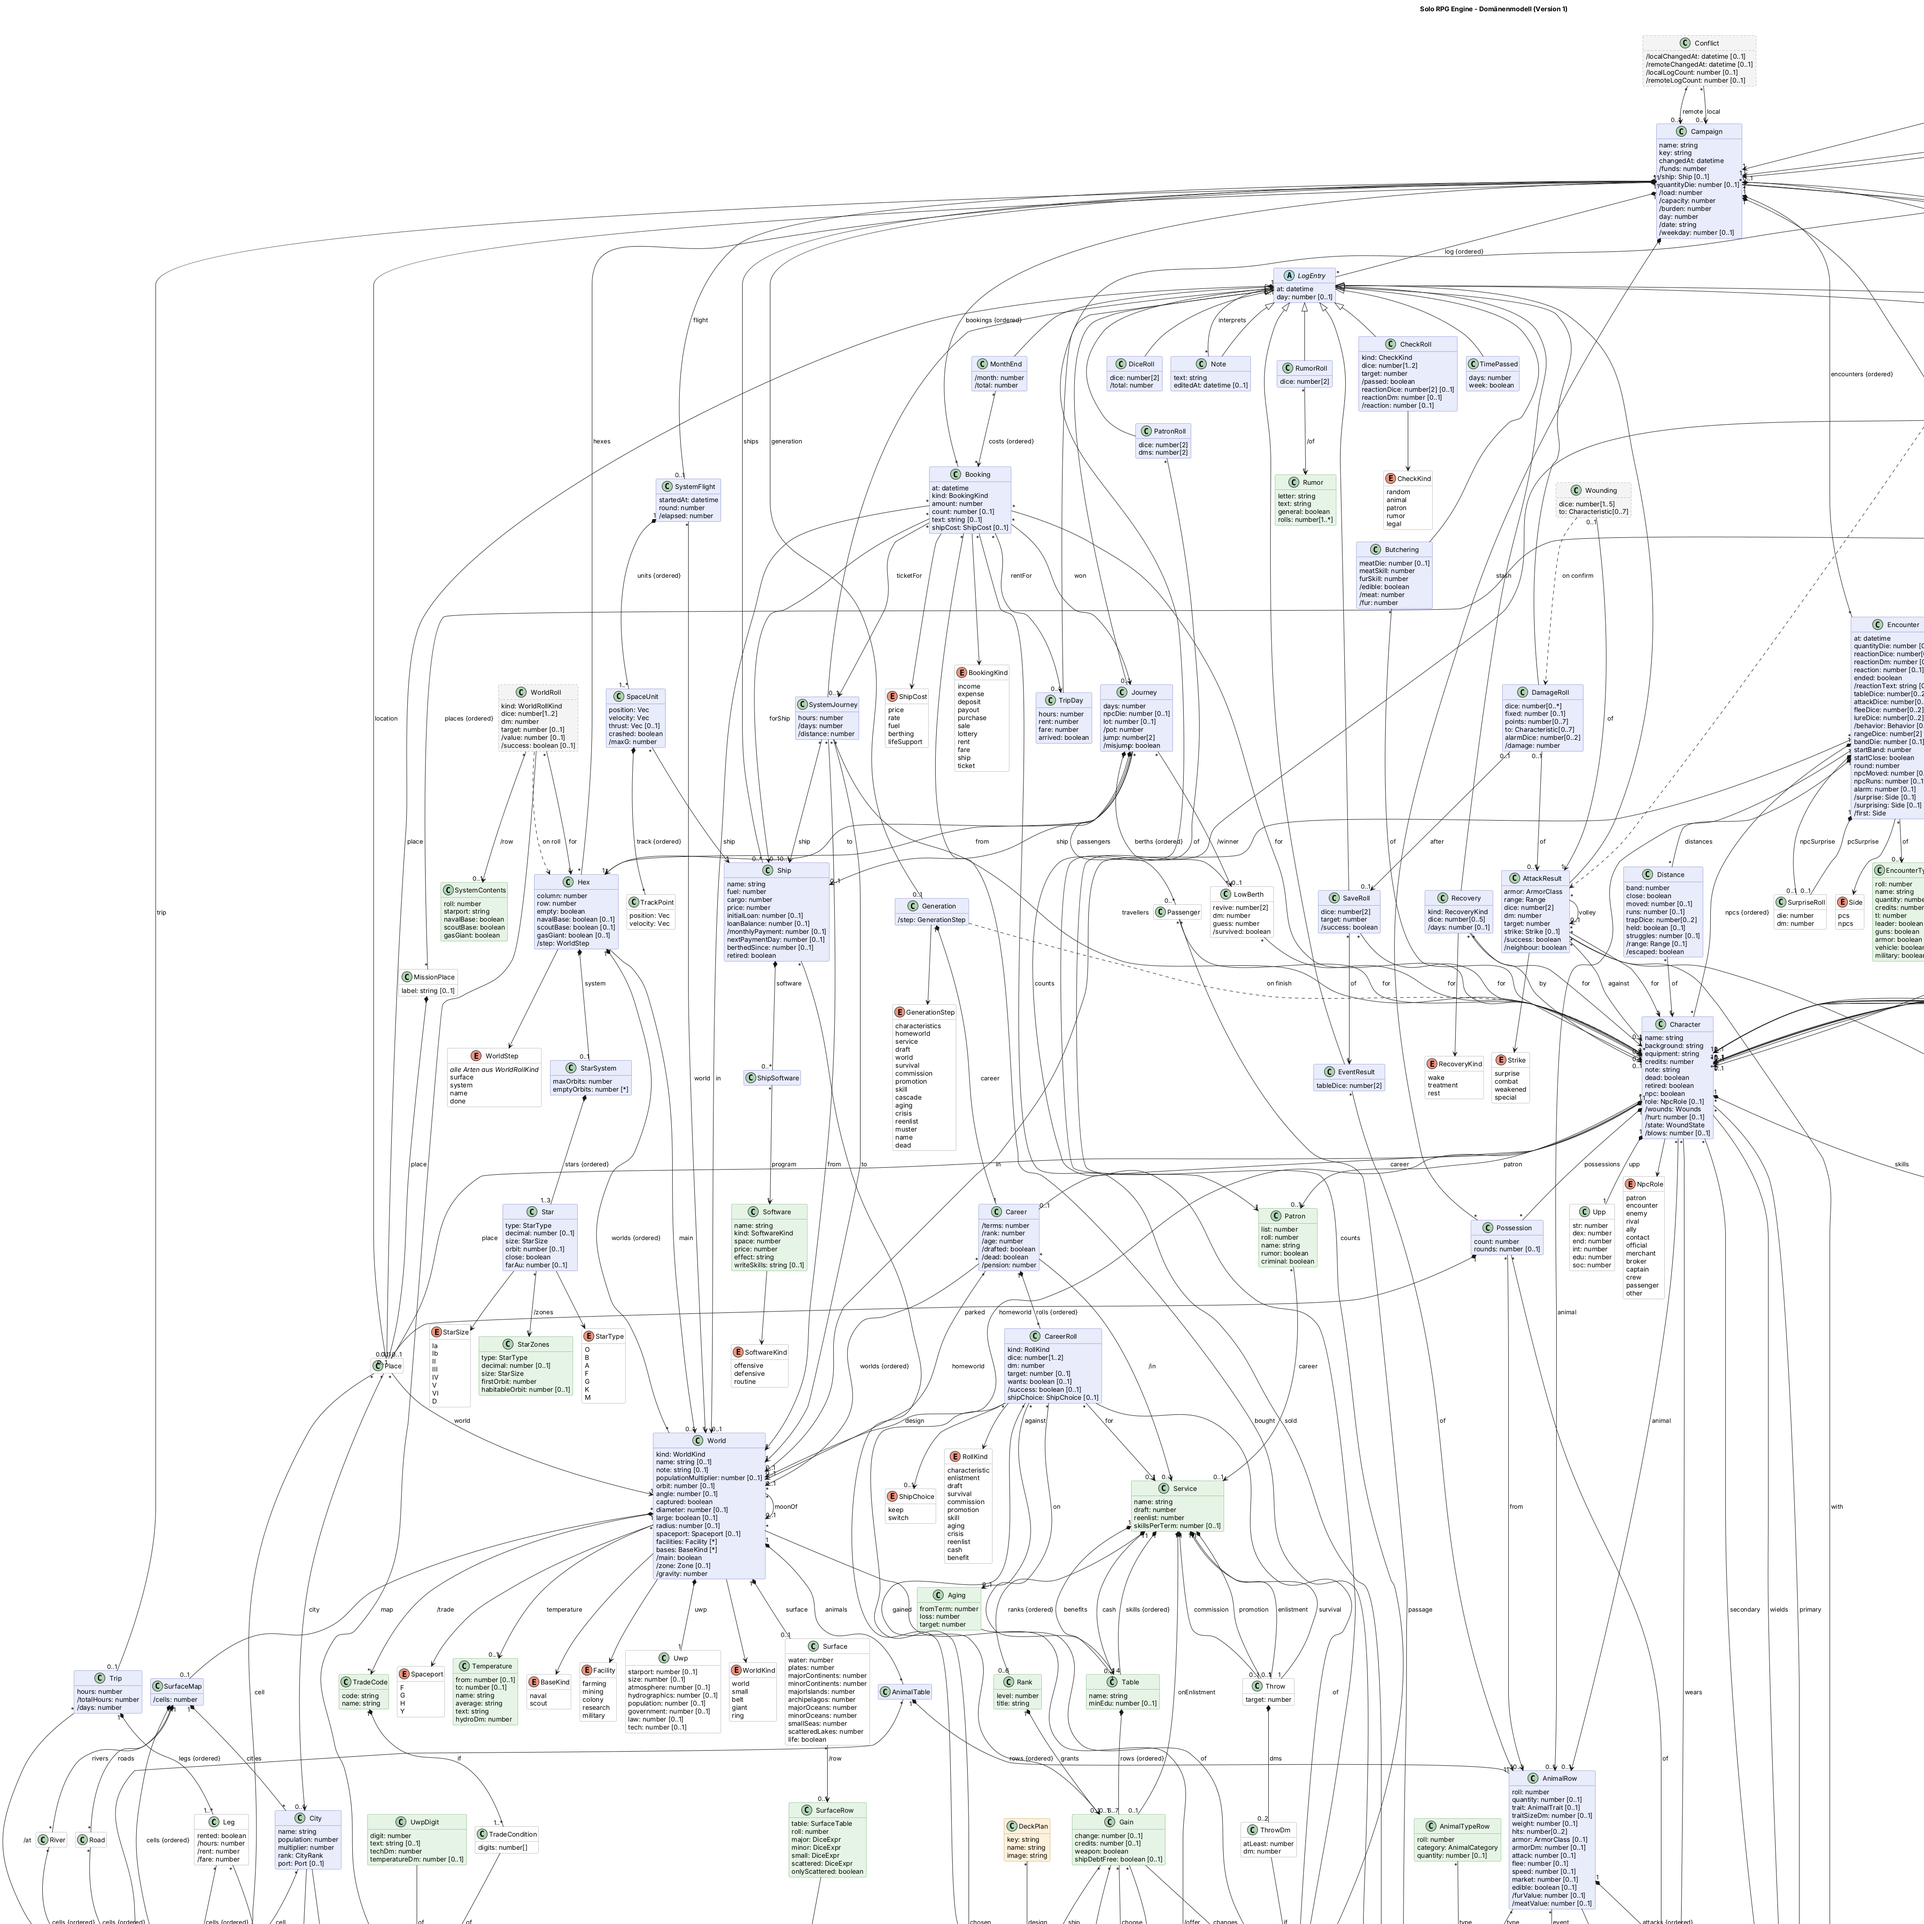
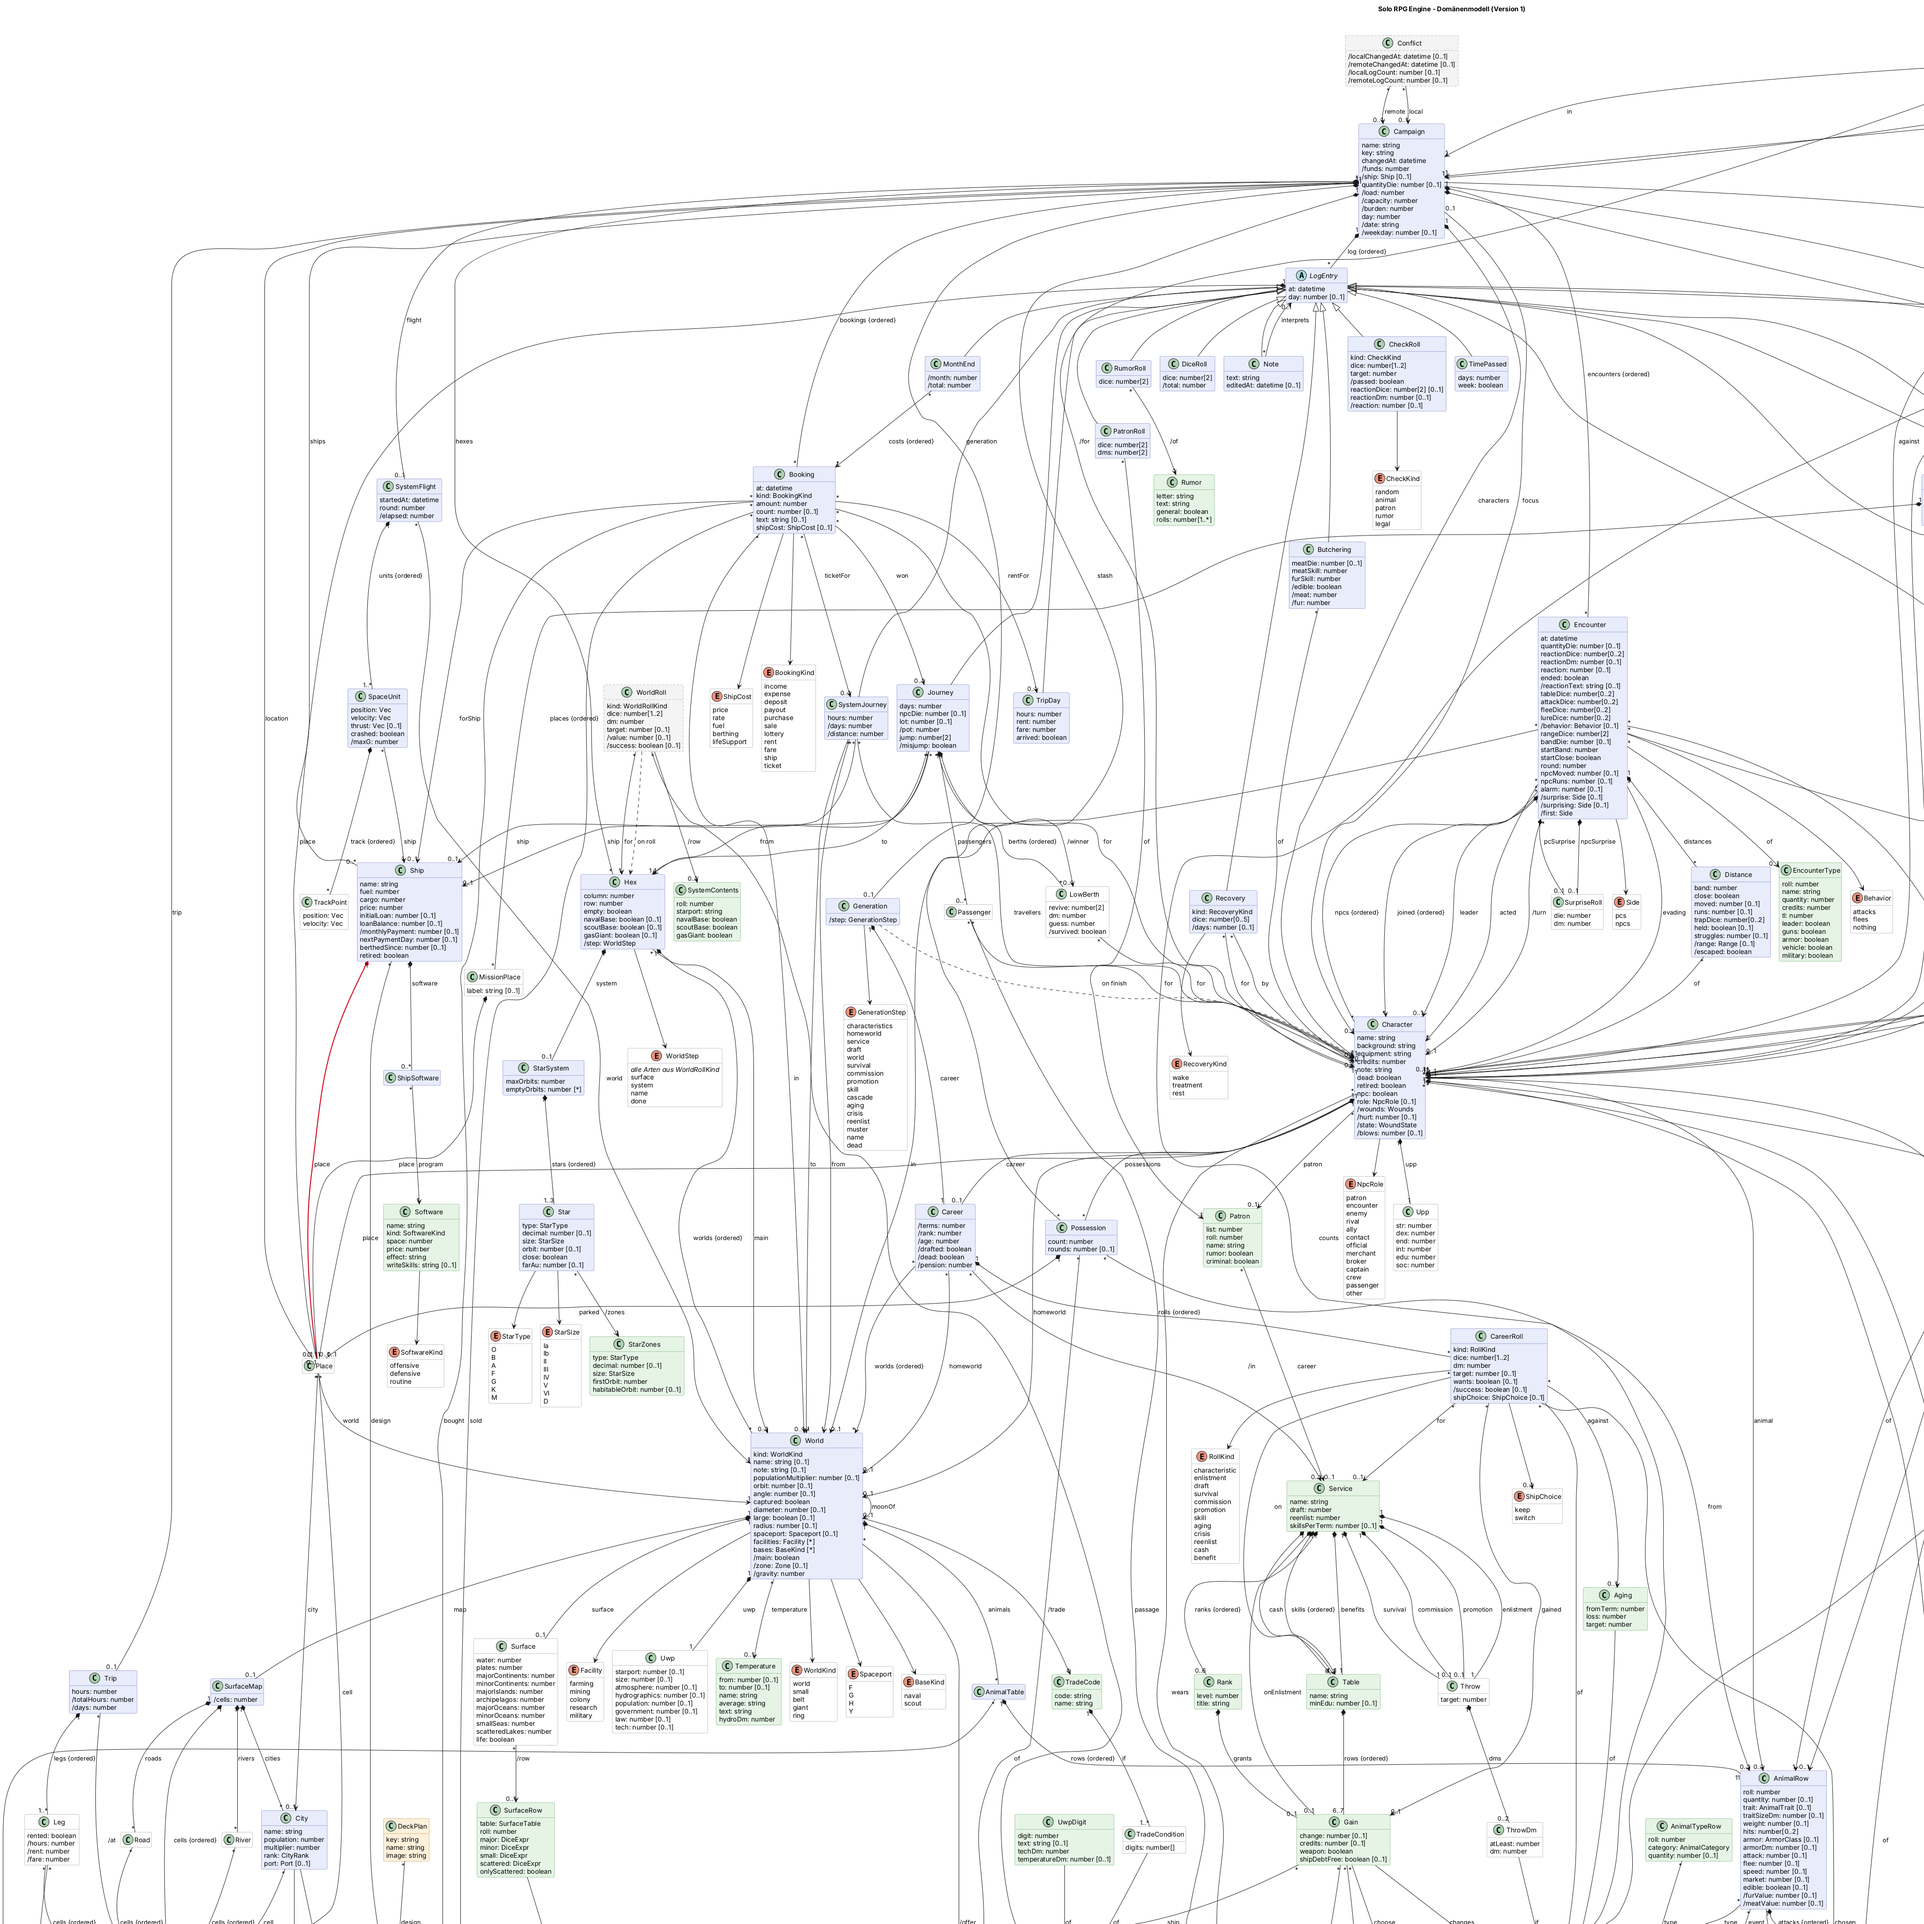
Domänenmodell: Landeplatz, Schiff mit eigenem Ort (2026-11-21, wartet auf Freigabe)
Claude-Session: https://claude.ai/code/session_016ZF27xER1hjLmByaCgNk4E

diff --git a/docs/domain-model.md b/docs/domain-model.md
@@ -488,6 +488,12 @@ Lücken unter [Wo der Code noch nicht folgt](#wo-der-code-noch-nicht-folgt).
 > `SystemJourney` mit `from`, `to`, `travellers`, `ship`, die Buchungsart `ticket` und
 > `Booking.ticketFor`. Der Ausschnitt dazu liegt unter
 > [`changes/2026-11-20d-reise-im-system.png`](changes/2026-11-20d-reise-im-system.png).
+>
+> Wartet auf Freigabe (Kennzeichen 2026-11-21): **Landeplatz** (Owner, 21. November 2026). Kommt die
+> Gruppe auf eine Welt mit Globus, wählt sie zuerst ein Feld: einen Raumhafen oder, mit eigenem
+> Schiff, einen beliebigen Ort. Das Schiff hat einen eigenen Ort; abfliegen kann es nur, wenn die
+> Gruppe bei ihm ist, und Passagen gibt es nur in einer Stadt mit Hafen. Neu im Bild: `Ship.place`.
+> Der Ausschnitt dazu liegt unter [`changes/2026-11-21-landeplatz.png`](changes/2026-11-21-landeplatz.png).
 
 ![Domänenmodell der Solo RPG Engine](domain-model.png)
 
@@ -883,6 +889,7 @@ Vacc Suit, Jack-of-all-Trades, …), Terms, Cr.
 | Raumhafen einer Nebenwelt | `World.spaceport`, `Spaceport` | Der Spaceport einer Welt außer der Hauptwelt nach Book 6: F gut, G schlecht, H einfachste Einrichtungen, Y keiner; den Starport (A–E, X) hat nur die Hauptwelt (2026-11-20c) |
 | Basis einer Nebenwelt | `World.bases`, `BaseKind` | Ein Marinestützpunkt oder eine Scoutbasis auf einer Welt außer der Hauptwelt (B6 37); die Basen der Hauptwelt stehen am Hexfeld (2026-11-20c) |
 | Einrichtung | `World.facilities`, `Facility` | Warum es auf einer Nebenwelt eine Siedlung gibt (B6 38): Farming (Landwirtschaft), Mining (Bergbau), Colony (Kolonie), Research Laboratory (Forschung), Military Base (Militärbasis) (2026-11-20c) |
+| Landeplatz | `Campaign.location`, `Ship.place` | Das Feld oder die Stadt, an der die Gruppe nach einer Ankunft steht; mit eigenem Schiff steht auch das Schiff dort (2026-11-21) |
 | Gastgeber | `StarSystem.host` | Der Gasriese (eine Welt der Art giant, 2026-11-20b), um den die Hauptwelt kreist, wenn sie in seiner Bahn liegt (Book 6); dann ist sie ein Mond und hat selbst keine Monde (2026-11-18d) |
 | Am Gasriesen | `SystemFlight.at` | Der Gasriese (eine Welt der Art giant, 2026-11-20b), auf dessen Raumkarte ein Systemflug läuft; ohne ihn läuft er an der Welt (2026-11-18d) |
 | Asteroidenfeld | (abgeleitet, View) | Was die Raumkarte bei einer Welt der Größe 0 statt eines Planeten zeigt: Brocken aus dem Weltschlüssel, nicht gespeichert, ohne Schwerkraft (2026-11-18d) |
@@ -1422,6 +1429,30 @@ Vacc Suit, Jack-of-all-Trades, …), Terms, Cr.
     - *Wer*: wie bei der Reise alle lebenden, nicht ausgeblendeten Charaktere (`travellers`). Danach
       ist der Aufenthaltsort die Zielwelt (ohne Stadt und Feld).
     - Im Log wie die Reise: nicht löschbar.
+  - *Landeplatz* (wartet auf Freigabe, 2026-11-21; Owner, 21. November 2026: „egal wie ich auf eine
+    Welt komme, ich muss immer zuerst ein Feld für die Landung auswählen“).
+    - *Wann*: Ist die Gruppe auf einer Welt mit Globus, aber ohne Feld und ohne Stadt (nach einer
+      Reise, einer Reise im System, einer Landung aus dem Systemflug oder „Gruppe platzieren“), geht
+      zuerst der Dialog **Landeplatz** auf; vorher geht nichts anderes. Welten ohne Globus
+      (Asteroidengürtel) haben keine Felder: Dort ist die Gruppe einfach auf der Welt.
+    - *Was*: Der Dialog bietet jede Stadt der Welt mit Hafen an (A–E Starport, F–H Spaceport, Owner:
+      alle Häfen) und, wenn die Gruppe mit dem eigenen Schiff kam, **Anderer Ort**: Dann tippt man
+      auf dem Globus ein Feld an und bestätigt. ⚑ Hat eine Welt keine Stadt mit Hafen (selten, etwa
+      dünn besiedelt), bietet der Dialog auch ohne eigenes Schiff „Anderer Ort“ an.
+    - *Folge*: Die Gruppe steht in dieser Stadt bzw. auf diesem Feld (`Campaign.location`). Kam sie mit
+      dem eigenen Schiff (Reise mit eigenem Schiff, Reise im System mit eigenem Schiff, Landung aus
+      dem Systemflug), steht auch das Schiff dort (`Ship.place`).
+    - *Abflug mit eigenem Schiff* (Sprung, Reise im System, Systemflug beginnen) geht nur, wenn die
+      Gruppe beim Schiff ist: auf seiner Welt und, hat es ein Feld oder eine Stadt, dort. Das Schiff
+      steht auf dem Globus mit einem eigenen Zeichen.
+    - *Abflug mit Passage oder Ticket* geht nur aus einer Stadt mit Hafen, nicht „aus der Pampa“; am
+      Ziel landet das fremde Schiff an einem Hafen (der Dialog bietet dann nur Häfen an).
+    - *Schiffe ohne Ort* (alte Stände, gerade gekauft): Sie stehen dort, wo die Gruppe ist, bis die
+      Gruppe ihren nächsten Landeplatz wählt; dann steht das Schiff dort.
+    - ⚑ *Liegegebühren*: Das Schiff liegt dort, wo es steht (nicht mehr, wo die Gruppe ist). Steht es
+      in einer Stadt mit Hafen, kostet es wie bisher Cr100 bei der Ankunft und Cr100 je weiteren Tag;
+      an einem beliebigen Ort kostet es nichts. Ohne Feld (Welt ohne Globus) gilt wie bisher der
+      Raumhafen der Welt.
   - *Ohne Reise*: „Gruppe platzieren“ auf der Weltkarte und die Wahl im Reiter Begegnung setzen den
     Aufenthaltsort weiter ohne Reise und ohne Zeit, etwa zu Beginn einer Kampagne oder für eine
     Reise außerhalb der Regeln.
